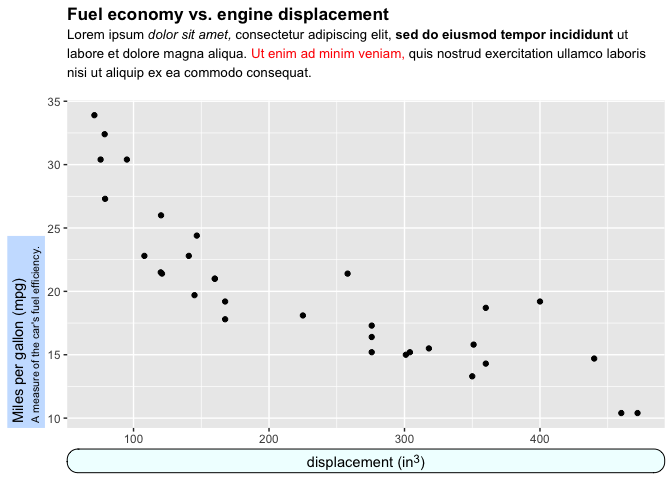
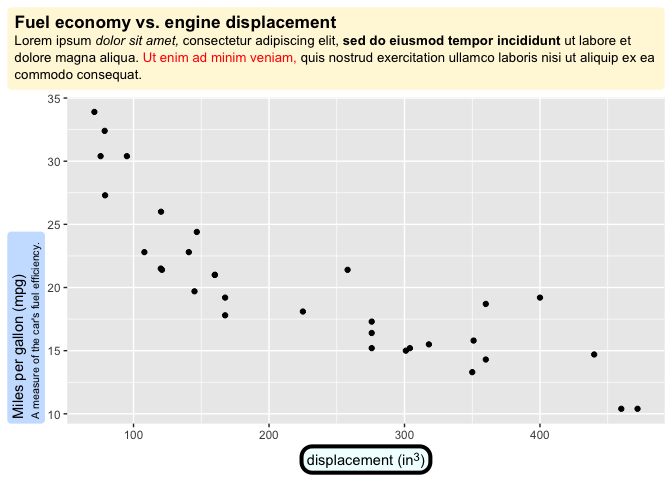
updates to element_markdown and element_textbox

diff --git a/README.md b/README.md
@@ -103,6 +103,9 @@ ggplot(iris, aes(Species, Sepal.Width)) +
 that require word wrapping. Unlike `element_markdown()`, it cannot be
 used for axis tick labels, and it cannot draw text at arbitary angles,
 only at fixed orientations corresponding to 0, 90, 180, and 270 degrees.
+In practice, you will usually want to use `element_textbox_simple()`
+instead of `element_textbox()`, as it sets useful defaults for many
+parameters not usually defined in ggplot2 themes.
 
 ``` r
 ggplot(mtcars, aes(disp, mpg)) + 
@@ -119,25 +122,30 @@ ggplot(mtcars, aes(disp, mpg)) +
     the car's fuel efficiency.</span>"
   ) +
   theme(
-    plot.title = element_textbox(
-      size = 13, lineheight = 1.1, height = unit(70, "pt")
+    plot.title.position = "plot",
+    plot.title = element_textbox_simple(
+      size = 13,
+      lineheight = 1,
+      padding = margin(5.5, 5.5, 5.5, 5.5),
+      margin = margin(0, 0, 5.5, 0),
+      fill = "cornsilk"
     ),
-    axis.title.x = element_textbox(
-      hjust = 0.5, vjust = 0.5,
-      padding = margin(4, 4, 2, 4),
+    axis.title.x = element_textbox_simple(
+      width = NULL,
+      padding = margin(4, 4, 4, 4),
+      margin = margin(4, 0, 0, 0),
       linetype = 1,
       r = grid::unit(8, "pt"),
-      fill = "azure1",
-      lineheight = 1.1
+      fill = "azure1"
     ),
-    axis.title.y = element_textbox(
-      hjust = 0, vjust = 0.5, box.hjust = 0, box.vjust = 0.5,
+    axis.title.y = element_textbox_simple(
+      box.hjust = 0,
       orientation = "left-rotated",
+      minwidth = unit(1, "in"),
       maxwidth = unit(2, "in"),
       padding = margin(4, 4, 2, 4),
       margin = margin(0, 0, 2, 0),
-      fill = "lightsteelblue1",
-      lineheight = 1.1
+      fill = "lightsteelblue1"
     )
   )
 ```
